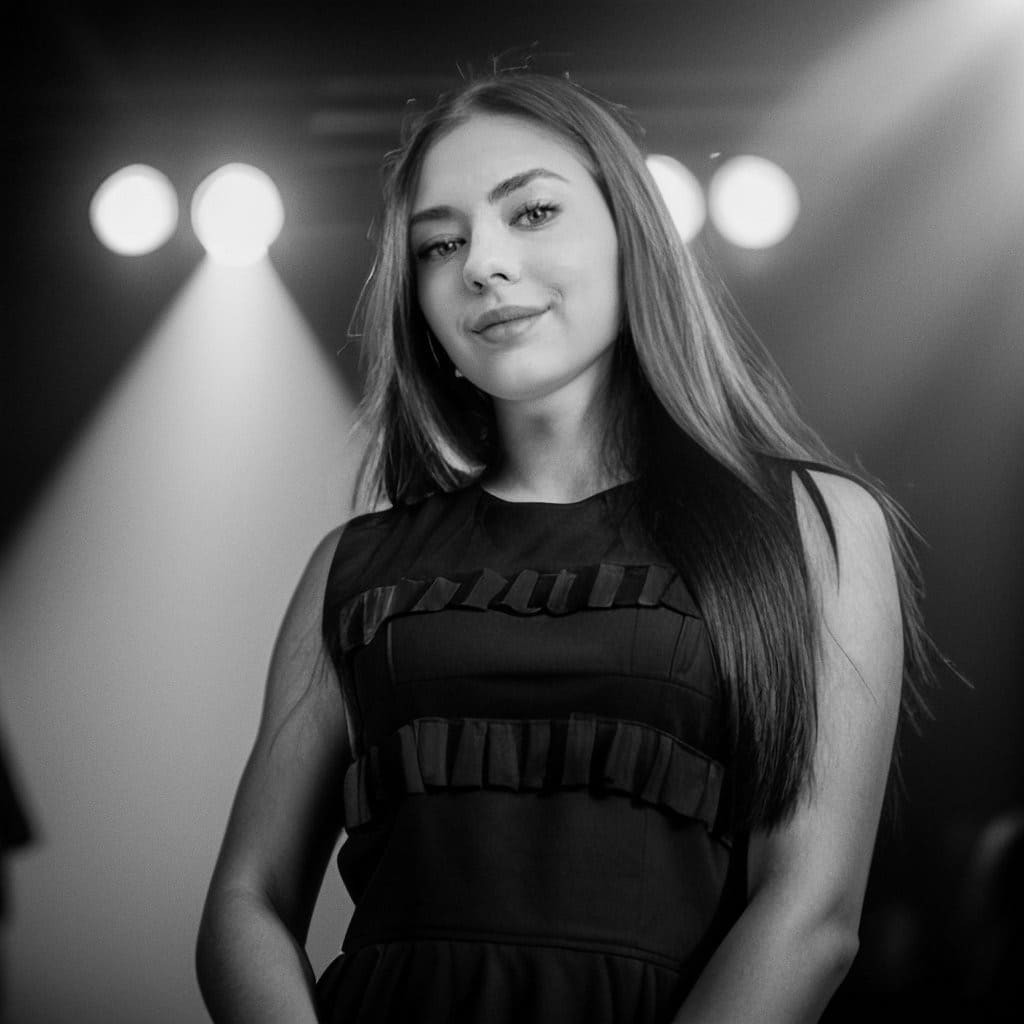
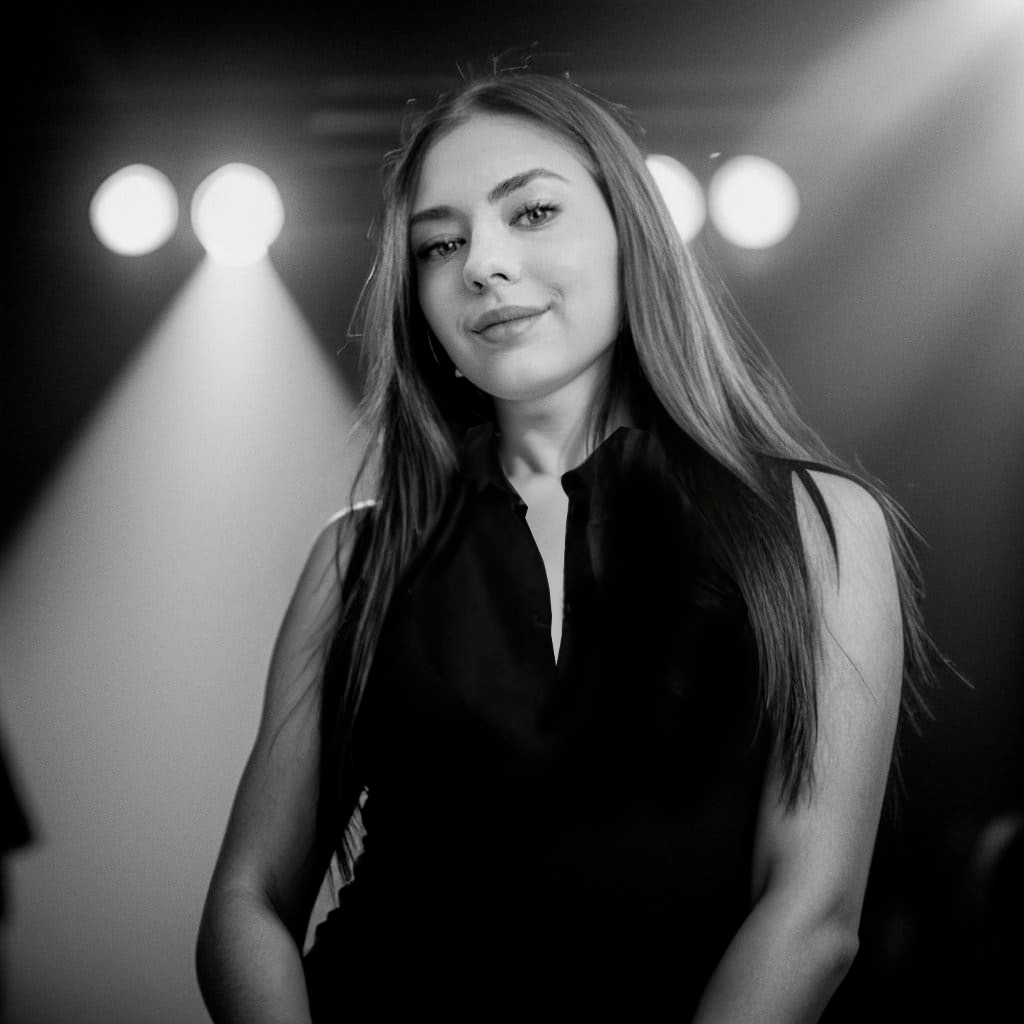
поменял фотку Полины, убрал Антона

diff --git a/src/app/shared/constants/ourTeam.constants.ts b/src/app/shared/constants/ourTeam.constants.ts
@@ -86,25 +86,25 @@ export const ourTeamList: Array<IAboutPersonalData> = [
             ` 
         }
     },
-    {
-        name: 'Антон',
-        queryParamName: 'Anton',
-        position: 'Head of Architecture and Analytics',
-        photo: 'assets/images/team-page/photo/architect.jpeg',
-        details: {
-            vita: `
-                <div class="aboutPersonParagraph">
-                    Опытный IT-эксперт с глубокими знаниями в проектировании сложных систем.
-                </div>
-                <div class="aboutPersonParagraph">
-                    Начал участвовать в стартапах еще со студенческих лет и с тех пор накопил богатый опыт. Его карьера началась с позиции SQL-аналитика, после чего он занимал роли менеджера проектов, лида по системному анализу и архитектора.
-                </div>
-                <div class="aboutPersonParagraph">
-                    Работая в организации, входящей в состав французской финансовой группы Societe Generale, Антон успешно реализовал множество проектов, где ключевыми требованиями были точность, безопасность и высокая скорость. Он возглавлял отдел системного анализа и архитектуры в международной компании, уделяя особое внимание проектированию высоконагруженных, стабильных и масштабируемых решений.
-                </div>
-            ` 
-        }
-    },
+    // {
+    //     name: 'Антон',
+    //     queryParamName: 'Anton',
+    //     position: 'Head of Architecture and Analytics',
+    //     photo: 'assets/images/team-page/photo/architect.jpeg',
+    //     details: {
+    //         vita: `
+    //             <div class="aboutPersonParagraph">
+    //                 Опытный IT-эксперт с глубокими знаниями в проектировании сложных систем.
+    //             </div>
+    //             <div class="aboutPersonParagraph">
+    //                 Начал участвовать в стартапах еще со студенческих лет и с тех пор накопил богатый опыт. Его карьера началась с позиции SQL-аналитика, после чего он занимал роли менеджера проектов, лида по системному анализу и архитектора.
+    //             </div>
+    //             <div class="aboutPersonParagraph">
+    //                 Работая в организации, входящей в состав французской финансовой группы Societe Generale, Антон успешно реализовал множество проектов, где ключевыми требованиями были точность, безопасность и высокая скорость. Он возглавлял отдел системного анализа и архитектуры в международной компании, уделяя особое внимание проектированию высоконагруженных, стабильных и масштабируемых решений.
+    //             </div>
+    //         ` 
+    //     }
+    // },
     {
         name: 'Александр',
         queryParamName: 'Alexander',
